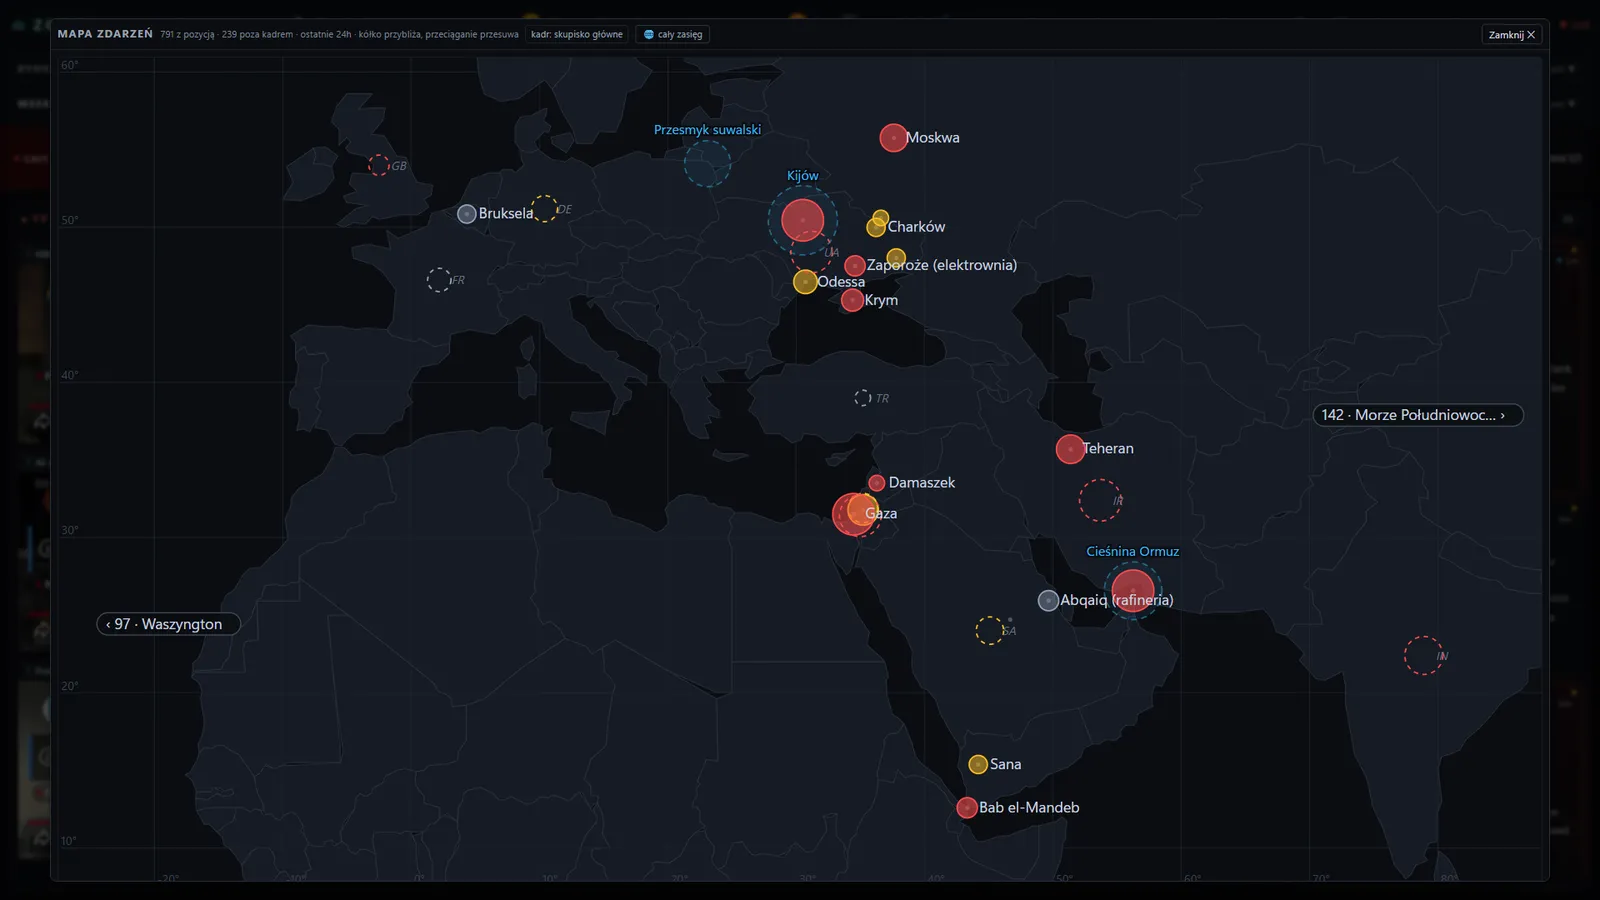
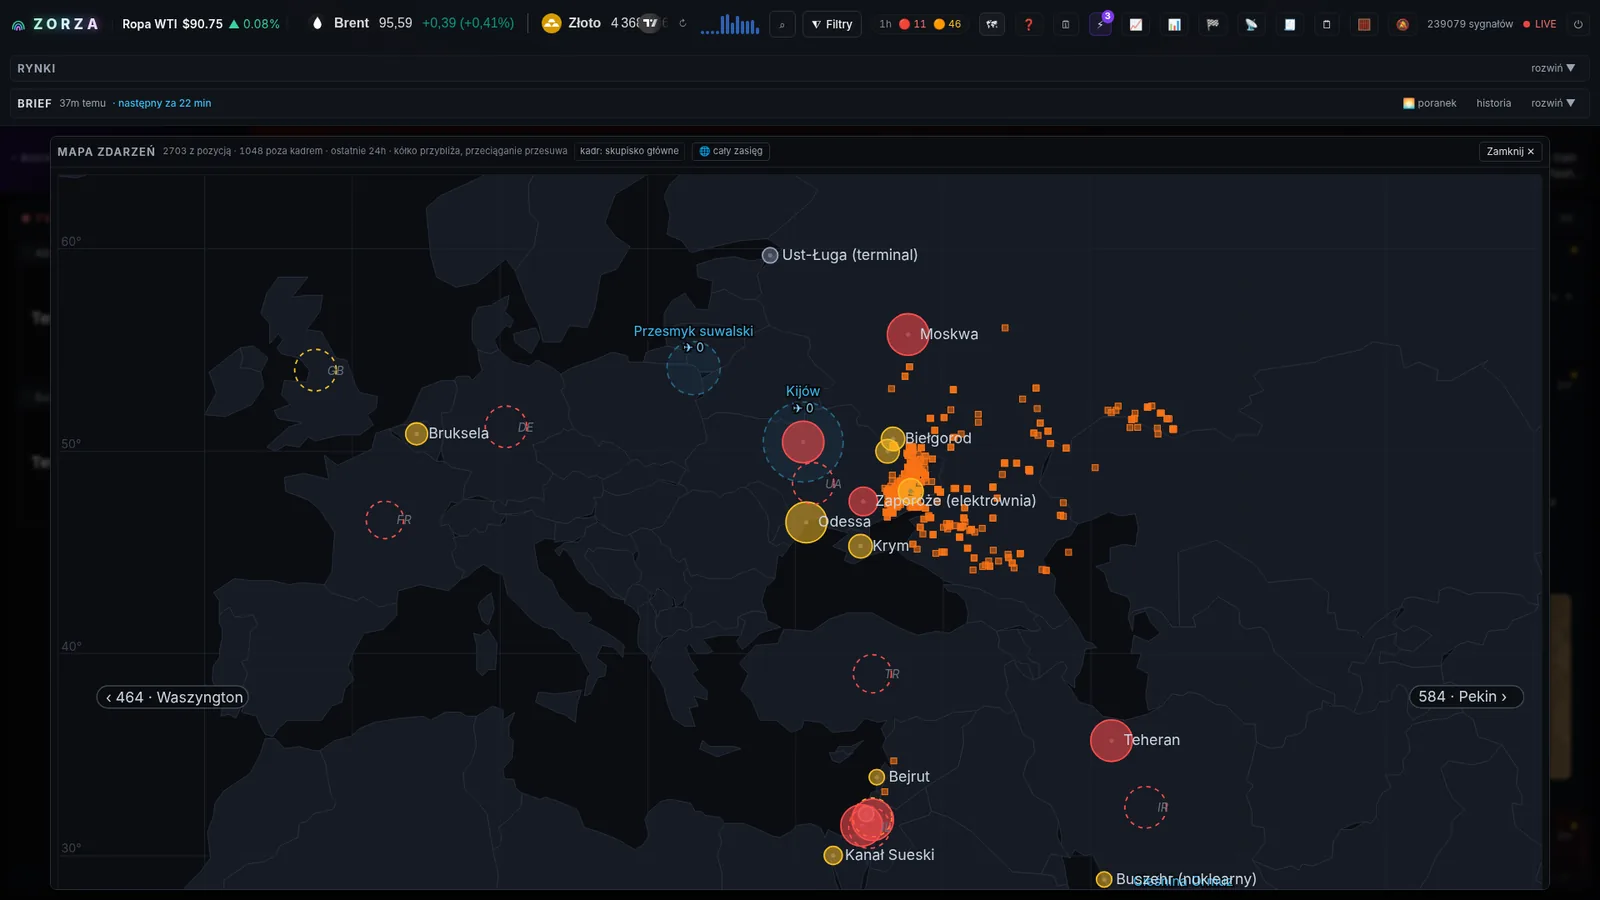
chore: nowsze zrzuty mapy i wykresów Zorzy
Mapa zdarzeń i wykresy z newsami podmienione na aktualne zrzuty z repozytorium
Zorzy (landing/public/zrzuty): na mapie widać teraz warstwę punktów frontowych
i szerszy kadr, na wykresach markery newsów i nową górną belkę z briefem.
Przeskalowane do 1600×900 jak pozostałe zrzuty, `?v=2` dla obu plików.

Claude-Session: https://claude.ai/code/session_01T3urgCYLpL9u9585afoXpj

diff --git a/index.html b/index.html
@@ -402,8 +402,8 @@
                                     <div class="showcase-gallery">
                                         <button type="button" class="showcase-thumb is-active" data-src="assets/images/zorza.webp" aria-label="Zrzut 1"><img src="assets/images/zorza.webp" alt="" loading="lazy"></button>
                                         <button type="button" class="showcase-thumb" data-src="assets/images/zorza-karta.webp" aria-label="Zrzut 2"><img src="assets/images/zorza-karta.webp" alt="" loading="lazy"></button>
-                                        <button type="button" class="showcase-thumb" data-src="assets/images/zorza-mapa.webp" aria-label="Zrzut 3"><img src="assets/images/zorza-mapa.webp" alt="" loading="lazy"></button>
-                                        <button type="button" class="showcase-thumb" data-src="assets/images/zorza-wykres.webp" aria-label="Zrzut 4"><img src="assets/images/zorza-wykres.webp" alt="" loading="lazy"></button>
+                                        <button type="button" class="showcase-thumb" data-src="assets/images/zorza-mapa.webp?v=2" aria-label="Zrzut 3"><img src="assets/images/zorza-mapa.webp?v=2" alt="" loading="lazy"></button>
+                                        <button type="button" class="showcase-thumb" data-src="assets/images/zorza-wykres.webp?v=2" aria-label="Zrzut 4"><img src="assets/images/zorza-wykres.webp?v=2" alt="" loading="lazy"></button>
                                     </div>
                                 </div>
                                 <div class="showcase-info">
